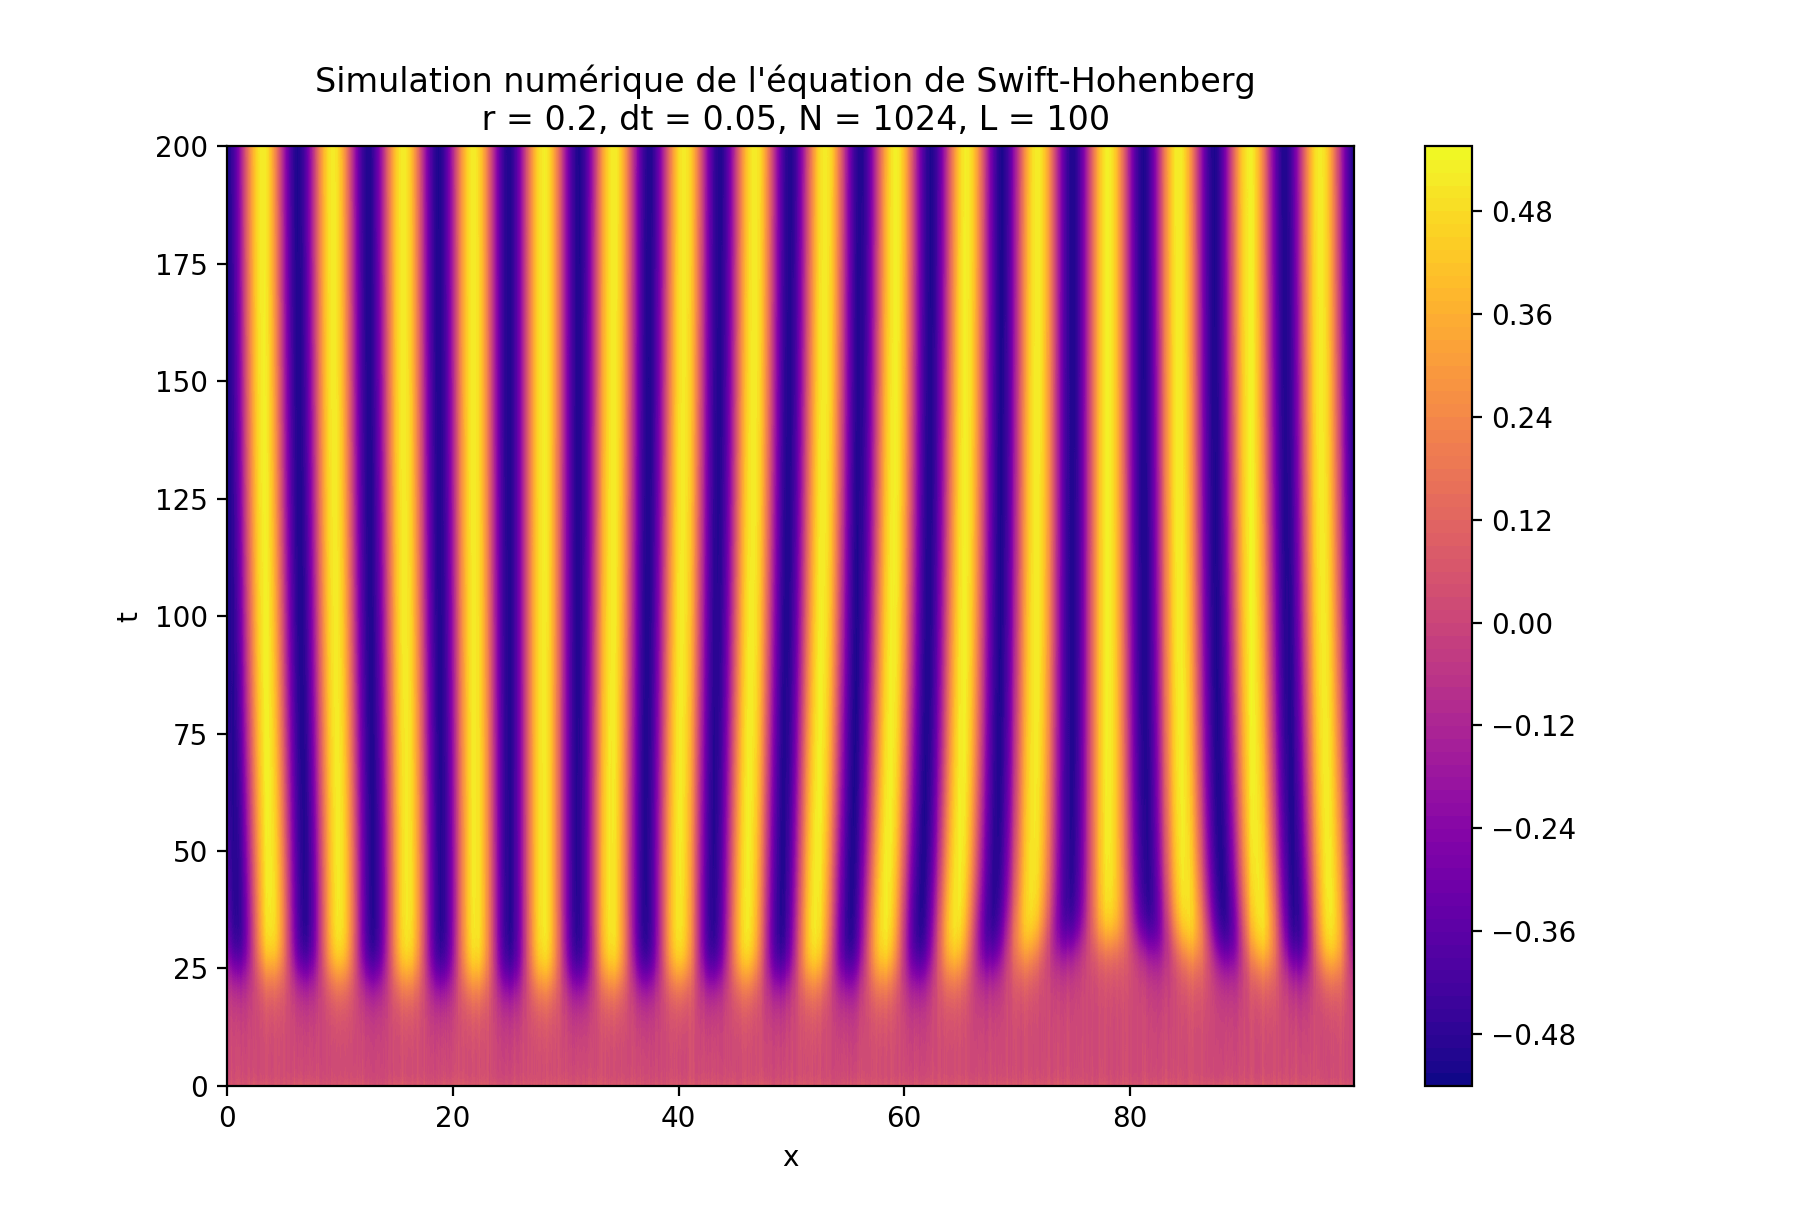
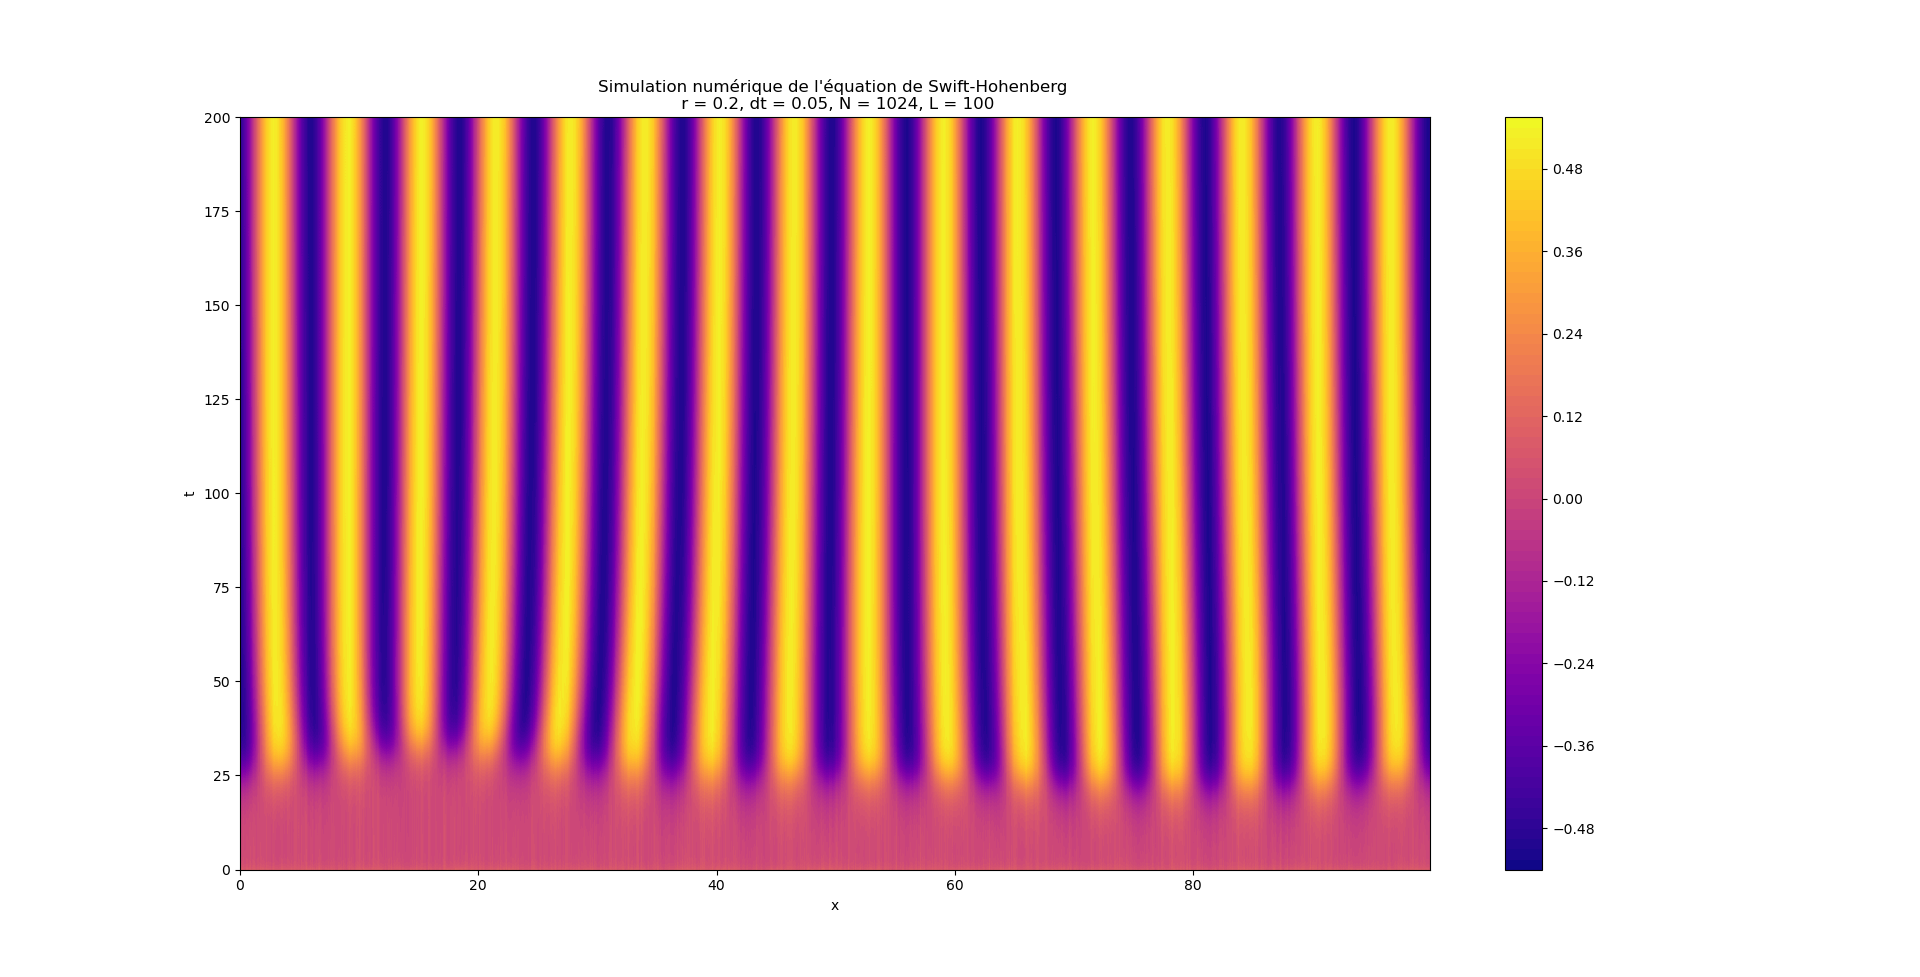
simulation noise + cste

diff --git a/pattern.py b/pattern.py
@@ -16,7 +16,7 @@ def noise_u_0(x,L):
     return 1*(cos(2*pi*x/L) + gamma*np.random.random(N)*cos(4*pi*x/L))
 
 def noise(x,L):
-    gamma = 0.1
+    gamma = 1e-4
     N = np.shape(x)[0]
     return gamma*np.random.random(N)
 
@@ -211,82 +211,82 @@ def tl_mesure(f0,r,L):
 def rL_effect(u0, r_range, L_range):
     time = np.zeros((len(r_range), len(L_range)))
     wavelength = np.zeros((len(r_range), len(L_range)))
-    
+
     for n,r in enumerate(r_range):
         for m,L in enumerate(L_range):
             t_,l_ = tl_mesure(u0, r, L)
             time[n,m] = t_
             wavelength[n,m] = l_
-            
+
     plt.imshow(time)
     plt.xlabel("L = {}".format(L_range))
     plt.ylabel("r = {}".format(r_range))
     plt.colorbar()
     plt.show()
-    plt.clf()  
-      
+    plt.clf()
+
     plt.imshow(wavelength)
     plt.xlabel("L = {}".format(L_range))
     plt.ylabel("r = {}".format(r_range))
     plt.colorbar()
     plt.show()
-    plt.clf()  
-    
-      
+    plt.clf()
+
+
 def r_effect(u0, r_range):
     L = 100
     time = np.zeros((len(r_range)))
     wavelength = np.zeros((len(r_range)))
-    
+
     for n,r in enumerate(r_range):
         t_,l_ = tl_mesure(u0, r, L)
         time[n] = t_
         wavelength[n] = l_
-            
+
     plt.plot(r_range, time)
     plt.xlabel("$r$")
     plt.ylabel("Temps")
     plt.title("Temps d'apparition des motifs en fonction de $r$")
     plt.show()
-    plt.clf()  
-      
+    plt.clf()
+
     plt.plot(r_range, wavelength)
     plt.xlabel("$r$")
     plt.ylabel("Longueur d'onde")
     plt.title("Longueur d'onde des motifs en fonction de $r$")
     plt.show()
-    plt.clf()  
-    
+    plt.clf()
+
 def L_effect(u0, L_range):
     r = 0.2
     time = np.zeros((len(L_range)))
     wavelength = np.zeros((len(L_range)))
-    
+
     for n,l in enumerate(L_range):
         t_,l_ = tl_mesure(u0, r, l)
         time[n] = t_
         wavelength[n] = l_
-            
+
     plt.plot(L_range, time)
     plt.xlabel("$L$")
     plt.ylabel("Temps")
     plt.title("Temps d'apparition des motifs en fonction de $L$")
     plt.show()
-    plt.clf()  
-      
+    plt.clf()
+
     plt.plot(L_range, wavelength)
     plt.xlabel("$L$")
     plt.ylabel("Longueur d'onde")
     plt.ylim([0,1.1*max(wavelength)])
     plt.title("Longueur d'onde des motifs en fonction de $L$")
     plt.show()
-    plt.clf()  
-    
-    
-    
+    plt.clf()
+
+
+
 #rL_effect(u_0, np.arange(-0.05,0.25,0.05), [25,50,100,150,200])
-r_effect(u_0, np.arange(-0.05, 0.25, 0.01))
-L_effect(u_0, np.arange(30,200, 30))
+#r_effect(u_0, np.arange(-0.05, 0.25, 0.01))
+#L_effect(u_0, np.arange(30,200, 30))
 
 
 
@@ -381,11 +381,13 @@ def r_bifurcation(u0, r_range):
 
 #r_bifurcation(u_0, np.arange(0.035,0.045,0.001))
 #rL_effect(u_0, np.arange(-0.05,0.25,0.05), [25,50,100,150,200])
-"""time_ev = SH(noise, 0.2, 100)
+
+
+time_ev = SH(noise, 0.2, 100)
 U = time_ev[0]
 x_range = time_ev[1]
 param = time_ev[2]
-
+"""
 plt.plot(x_range, U[:,0], label = "t = 0s")
 plt.plot(x_range, U[:,1], label = "t = {}s".format(param[3]))
 plt.plot(x_range, U[:,int(param[-2]/4)], label = "t = {:2.2f}s".format((param[-2]/4)*param[3]))
@@ -396,6 +398,7 @@ plt.title('Instantanés de l\'équation de Swift-Hohenberg\n r = {}, dt = {}, N 
 plt.legend()
 plt.show()
 plt.clf()
+
 
 t_range = np.arange(0,param[-3], param[3])
 [xx,tt]=np.meshgrid(x_range,t_range)
